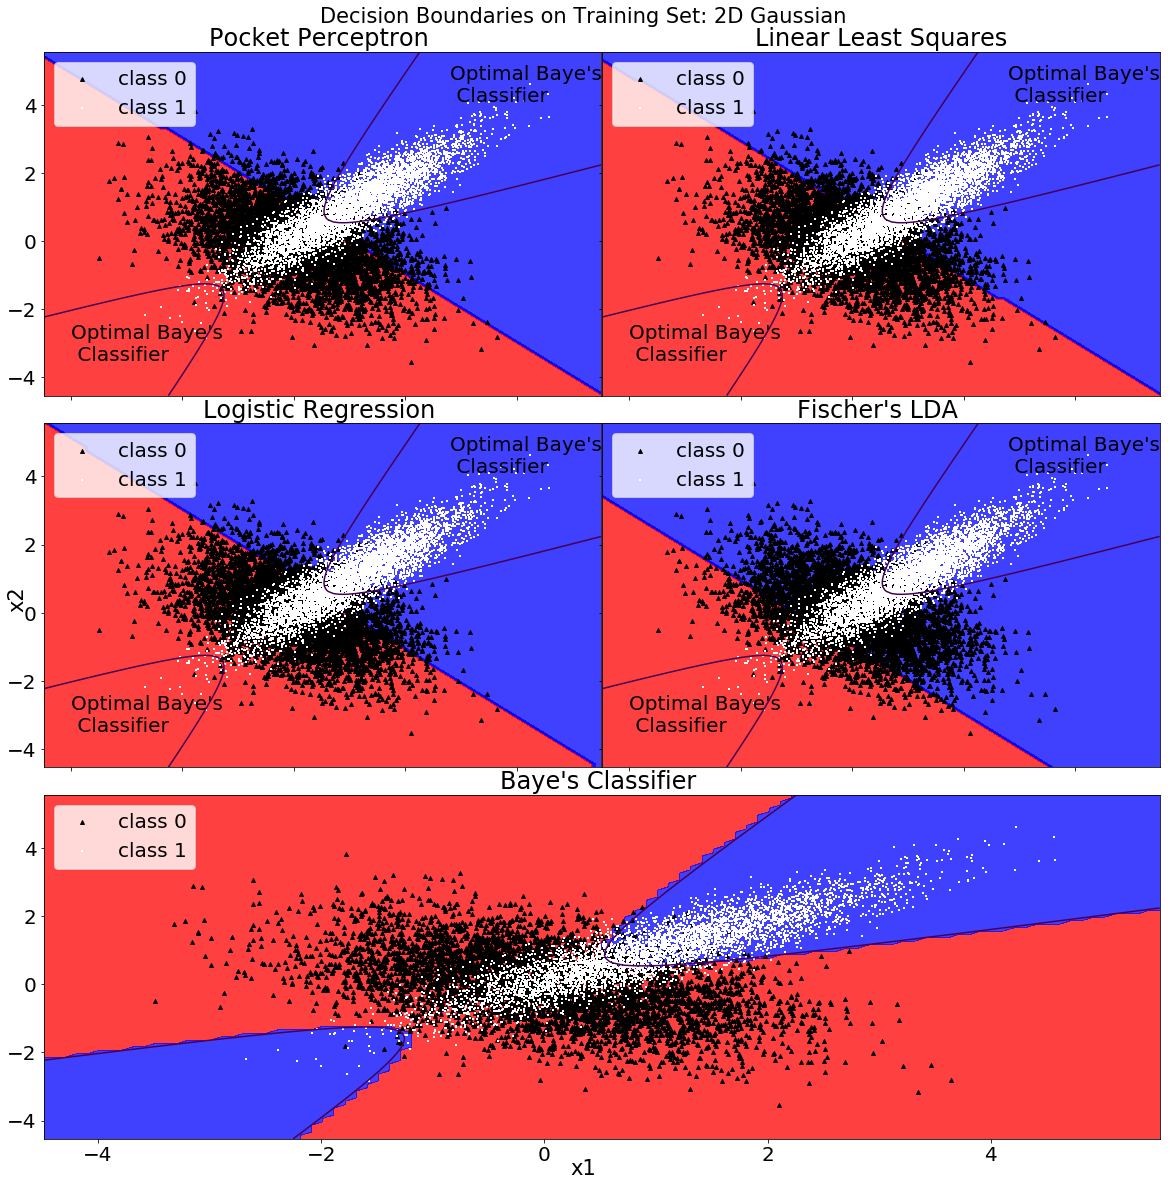
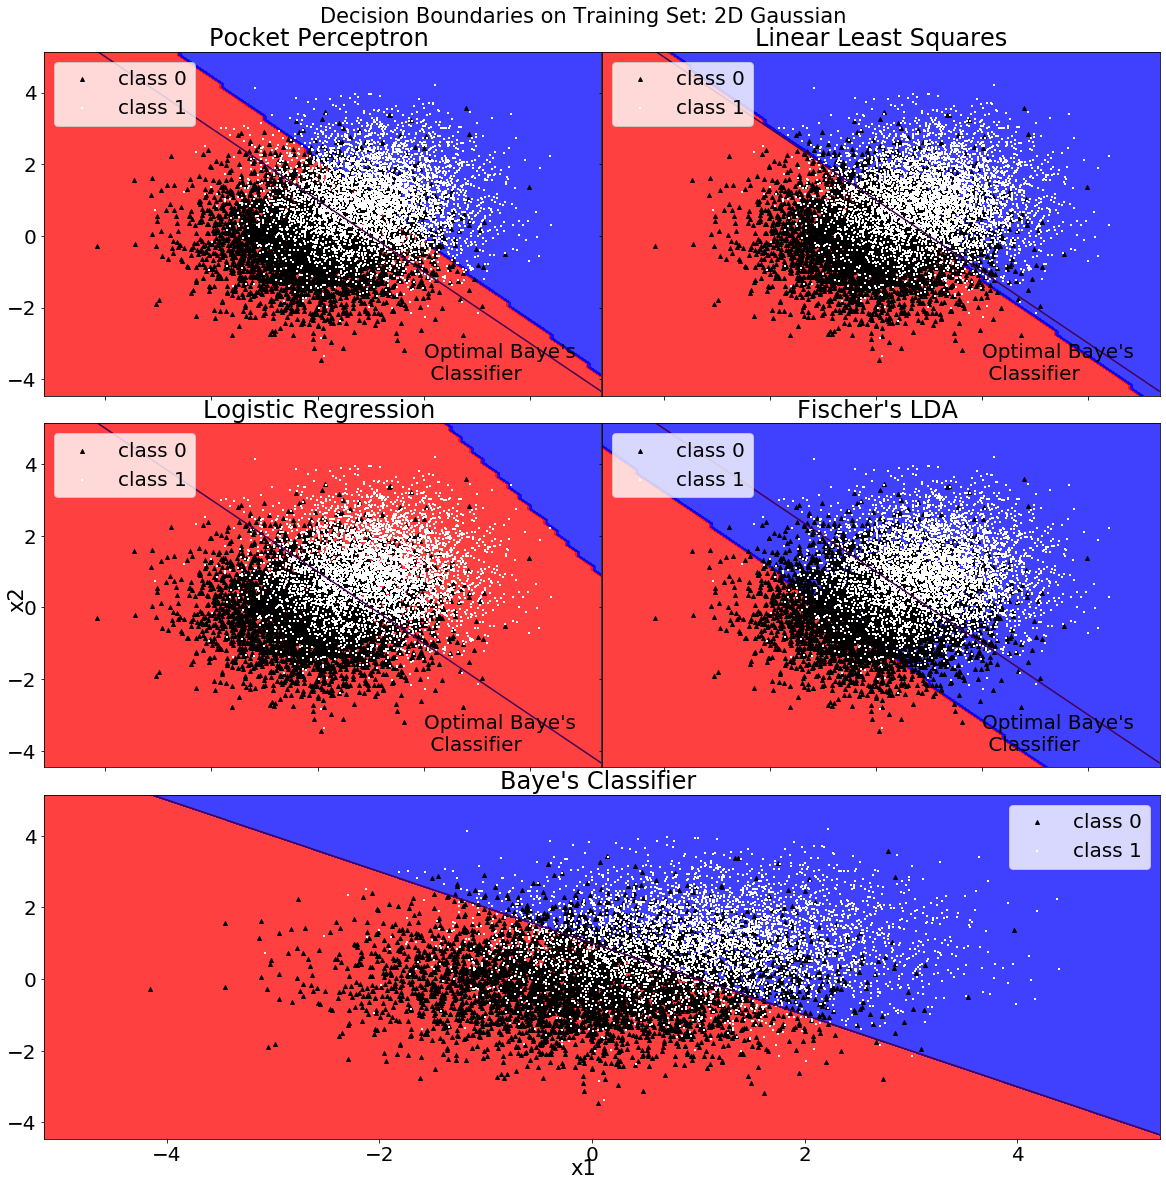
Bayes classifer

diff --git a/Assignment 4/Classification Task/Synthetic Dataset/my_help_functions.py b/Assignment 4/Classification Task/Synthetic Dataset/my_help_functions.py
@@ -311,8 +311,13 @@ def MESH_plot(y_set,X_set,title_name,**kwargs):
     if type(classifier_weights)!= np.ndarray:
         # range_of_points=classifier_weights.predict(test_points)
         range_of_points=np.zeros(len(test_points))
-        for i in range(len(test_points)):
-            range_of_points[i]=(np.sign(bay.dec_bound(test_points[i]))+1)/2
+        
+        
+        # for i in range(len(test_points)):
+        #     range_of_points[i]=(np.sign(bay.dec_bound(test_points[i]))+1)/2
+        range_of_points=bay.dec_bound(test_points)
+            
+            
         # range_of_points=abs(range_of_points-1)
         classifier_regions=range_of_points.reshape(X1.shape) #Reshape it into a matrix
         cs=subplot.contourf(X1, X2,classifier_regions,alpha = 0.75,levels=[-1,0,1],cmap = ListedColormap(('red', 'blue')))
@@ -334,8 +339,9 @@ def MESH_plot(y_set,X_set,title_name,**kwargs):
         ylist = np.linspace(lim1,lim2, 100)
         x1, x2 = np.meshgrid(xlist, ylist)  
         temp=np.zeros(len(test_points))
-        for i in range(len(test_points)):
-            temp[i]=bay.dec_bound(test_points[i])
+        # for i in range(len(test_points)):
+        #     temp[i]=bay.dec_bound(test_points[i])
+        temp=bay.dec_bound(test_points)
             
         temp=np.expand_dims(np.asarray(temp),axis=1)
         temp=temp.reshape(X1.shape)
@@ -353,8 +359,9 @@ def MESH_plot(y_set,X_set,title_name,**kwargs):
     subplot.legend()
     cs.collections[0].set_label("Baye's Boundary")
     if type(classifier_weights)== np.ndarray:
-        subplot.annotate('Optimal Baye\'s \n Classifier' ,(2.8,4.1))
-        subplot.annotate('Optimal Baye\'s \n Classifier' ,(-4,-3.5))
+        # subplot.annotate('Optimal Baye\'s \n Classifier' ,(2.8,4.1))
+        subplot.annotate('Optimal Baye\'s \n Classifier' ,(2,-4))
+        # n=1
     # plt.show()
 #%% Decision Boundary for Bayes
 class Bayes_Dec_Boundary(object):
@@ -372,22 +379,33 @@ class Bayes_Dec_Boundary(object):
         self.k=0.5*(-np.log(np.linalg.det(self.c1))
         +np.log(np.linalg.det(self.c2)))+np.log(self.p1/self.p2)
         
+        from sklearn.discriminant_analysis import QuadraticDiscriminantAnalysis
+        self.clf = QuadraticDiscriminantAnalysis(priors=[self.p1,self.p2])
+        
+        # self.A=np.linalg.inv(self.c1-self.c2)
+        # self.B=2*(self.c2_inv*self.m2-self.c1_inv*self.m1).T
+        # self.D=(self.m1.t@self.c1_inv@self.m1-self.m2.t@self.c2_inv@self.m2)
+        # self.D=self.D+np.log(np.linalg.det(self.c1)/np.linalg.det(self.c1))+np.log(self.p1/self.p2)
+        
     def dec_bound(self,x):
         #Breaking up the computation to avoid memory issues
-        temp1=(x-self.m1)
-        temp2=(x-self.m2)
-        y1=np.matmul(temp1,self.c1_inv)
-        y1=np.matmul(y1,temp1)*0.5
+        # temp1=(x-self.m1)
+        # temp2=(x-self.m2)
+        # y1=np.matmul(temp1,self.c1_inv)
+        # y1=np.matmul(y1,temp1)
         
-        y2=np.matmul(temp2,self.c2_inv)
-        y2=np.matmul(y2,temp2)*0.5
-        y=y1-y2+self.k
-        if self.p1==0:  #Only class 1 samples are present
-            return 1
-        elif self.p2==0: #Only class 0 samples are present:
-            return -1
-        else:
-            return y
+        # y2=np.matmul(temp2,self.c2_inv)
+        # y2=np.matmul(y2,temp2)
+        # y=y1-y2+self.k
+        # if self.p1==0:  #Only class 1 samples are present
+        #     return 1
+        # elif self.p2==0: #Only class 0 samples are present:
+        #     return -1
+        # else:
+
+
+            
+            return self.clf.predict(x)
 
 
 #%% SUBPLOTS   
@@ -418,12 +436,12 @@ def Plot_SubPlots(data,title_name,x_name,y_name,opti_bayes):
     MESH_plot(y_test,x_test,"Fischer's LDA ",classifier_weights=flda_pred,subplot=axs[3],bay=opti_bayes,Fisher_or_Log="Fischer")
     
     #Baye's PLOTS
-    y_pred=np.zeros(len(x_test))
-    for i in range(len(x_test)):
-            y_pred[i]=np.sign(opti_bayes.dec_bound(x_test[i]))
-    y_pred=(y_pred+1)/2
+    # y_pred=np.zeros(len(x_test))
+    # for i in range(len(x_test)):
+    #         y_pred[i]=np.sign(opti_bayes.dec_bound(x_test[i]))
+    # y_pred=abs(np.sign(y_pred)+1)/2
     # 1 y_pred=gnb.fit(x_train, y_train).predict(x_test) #Populate the mesh grid    
-
+    y_pred=np.sign(opti_bayes.dec_bound(x_test))
     gs = axs[4].get_gridspec()
     # remove the underlying axes
     for ax in axs[4:]:
@@ -457,13 +475,19 @@ def Eval(data,opti_bayes):
     [error_flda,y4]=linear_classify(flda_pred,x_test,y_test,fischer=True)
     
     #BAYE'S CLASSIFIER
-    y5=np.zeros(len(x_test))
-    for i in range(len(x_test)):
-        y5[i]=(np.sign(opti_bayes.dec_bound(x_test[i,:]))+1)/2
+    # y5=np.zeros(len(x_test))
+    # for i in range(len(x_test)):
+    #     y5[i]=(np.sign(opti_bayes.dec_bound(x_test[i,:]))+1)/2
+    y5=opti_bayes.dec_bound(x_test)
     # y_pred=gnb.fit(x_train, y_train).predict(x_test) #Populate the mesh grid    
     error=y_test[y_test!=y5]   
     error_baye=len(error) /len(y_test)
     
+    from sklearn.discriminant_analysis import QuadraticDiscriminantAnalysis
+    clf = QuadraticDiscriminantAnalysis(priors=[opti_bayes.p1,opti_bayes.p2])
+    clf.fit(x_train, y_train)
+    y5=clf.predict(x_test)
+
     # return np.asarray([1-error_percep,1-error_lin,1-error_logistic,1-error_flda,1-error_baye])
     return y1,y2,y3,y4,y5
 #%% PLOT PERFORMANCE

diff --git a/Assignment 4/Classification Task/Synthetic Dataset/Synthetic_Variable_Prior.py b/Assignment 4/Classification Task/Synthetic Dataset/Synthetic_Variable_Prior.py
@@ -18,20 +18,23 @@ means=[np.zeros(d), 1+np.zeros(d)]
 means=np.squeeze(np.asarray(means)).T
 # covariance=[[[2,0],[0,2]],[[0.5,0],[0,2]]]
 # covariance=covariance=np.dstack([np.eye(d),[[1, 0.9],[0.9, 1]]])
-covariance=np.dstack([np.eye(d),np.eye(d)])
+covariance=np.dstack([np.eye(d)+1,np.eye(d)])
 #%% OPTIMAL CLASSIFIER
 #%% Performance Graphs
 performance=[]
-priors=np.arange(0,1+0.05,0.05) #Prior probability of selecting a distribution
+priors=np.arange(0+0.05,1,0.05) #Prior probability of selecting a distribution
 itr=0
 for p in priors:
     opti_bayes=mf.Bayes_Dec_Boundary(means[:,0],means[:,1],covariance[:,:,0],covariance[:,:,1],p,1-p)
     [y_train, x_train]=mf.Get_Sythetic(K,d,N_train, priors=[p,1-p],means=means,cov=covariance)
-    [y_test, x_test]=mf.Get_Sythetic(K,d,N_test, priors=[0.5,0.5],means=means,cov=covariance)
-    
+    [y_test, x_test]=mf.Get_Sythetic(K,d,N_test, priors=[[p,1-p]],means=means,cov=covariance)
+    opti_bayes.clf.fit(x_train,y_train)
     # data=[x_train,y_train,x_test,y_test]
     data=[x_train,y_train,x_train,y_train]
-    temp=mf.Eval(data,opti_bayes)
+    temp1=mf.Eval(data,opti_bayes)
+    temp=temp1-y_train
+    temp[temp!=0]=1
+    temp=1-np.asarray(np.mean(temp,axis=1),dtype=float)
     performance.append(temp)
     itr+=1
     if itr==9:

diff --git a/Assignment 4/Classification Task/Synthetic Dataset/Main_Code.py b/Assignment 4/Classification Task/Synthetic Dataset/Main_Code.py
@@ -11,7 +11,7 @@ K=2 #How many distributions
 N_train=2000 #How many Samples
 N_test=10000 #How many Samples
 d=2 #How many dimensions
-p=0.5
+p=0.3
 
 means=[np.zeros(d),np.ones(d)]
 means=np.squeeze(np.asarray(means)).T
@@ -19,12 +19,12 @@ covariance=np.dstack(([[1, -0.5],[-0.5, 1]],[[1, 0.9],[0.9, 1]]))
 # covariance=np.dstack((np.eye(d),np.eye(d)))
 #%% Creating the bayes object
 opti_bayes=mf.Bayes_Dec_Boundary(means[:,0],means[:,1],covariance[:,:,0],covariance[:,:,1],p,1-p)
-t=opti_bayes.dec_bound([0,10])
 #%% Performance Graphs
 itr=0
 
 [y_train, x_train]=mf.Get_Sythetic(K,d,N_train, priors=[p,1-p],means=means,cov=covariance)
 [y_test, x_test]=mf.Get_Sythetic(K,d,N_test, priors=[p,1-p],means=means,cov=covariance)
+opti_bayes.clf.fit(x_train,y_train)
 # from sklearn.discriminant_analysis import LinearDiscriminantAnalysis
 
 # lda = LinearDiscriminantAnalysis()
@@ -38,7 +38,7 @@ data=[x_train,y_train,x_test,y_test]
 #%%
 mf.Plot_Figs(y_test,x_test,K,"10k Points")
 #%%
-# mf.Plot_SubPlots(data,"Decision Boundaries on Training Set: 2D Gaussian","x1","x2",opti_bayes)
+mf.Plot_SubPlots(data,"Decision Boundaries on Training Set: 2D Gaussian","x1","x2",opti_bayes)
 #%%
 from Confusion_Kaggle import plot_confusion_matrix
 import sklearn.metrics

diff --git a/Assignment 4/Classification Task/Synthetic Dataset/untitled0.py b/Assignment 4/Classification Task/Synthetic Dataset/untitled0.py
@@ -1,0 +1,29 @@
+#!/usr/bin/env python3
+# -*- coding: utf-8 -*-
+"""
+Created on Fri Apr 17 15:48:49 2020
+
+@author: sa1
+"""
+
+from sklearn.discriminant_analysis import QuadraticDiscriminantAnalysis
+import numpy as np
+import my_help_functions as mf
+d=2
+K=2
+p=0.2
+N_train=1000
+means=[np.zeros(d),np.ones(d)]
+means=np.squeeze(np.asarray(means)).T
+# covariance=np.dstack(([[1, -0.5],[-0.5, 1]],[[1, 0.9],[0.9, 1]]))
+covariance=np.dstack((np.eye(d)+1,np.eye(d)))
+
+#%%
+from sklearn.discriminant_analysis import QuadraticDiscriminantAnalysis
+import numpy as np
+X = np.array([[-1, -1], [-2, -1], [-3, -2], [1, 1], [2, 1], [3, 2]])
+y = np.array([0,0 , 0, 2, 2, 2])
+clf = QuadraticDiscriminantAnalysis(priors=[p,1-p])
+clf.fit(X, y)
+
+print(clf.predict([[-0.8, -1]]))
